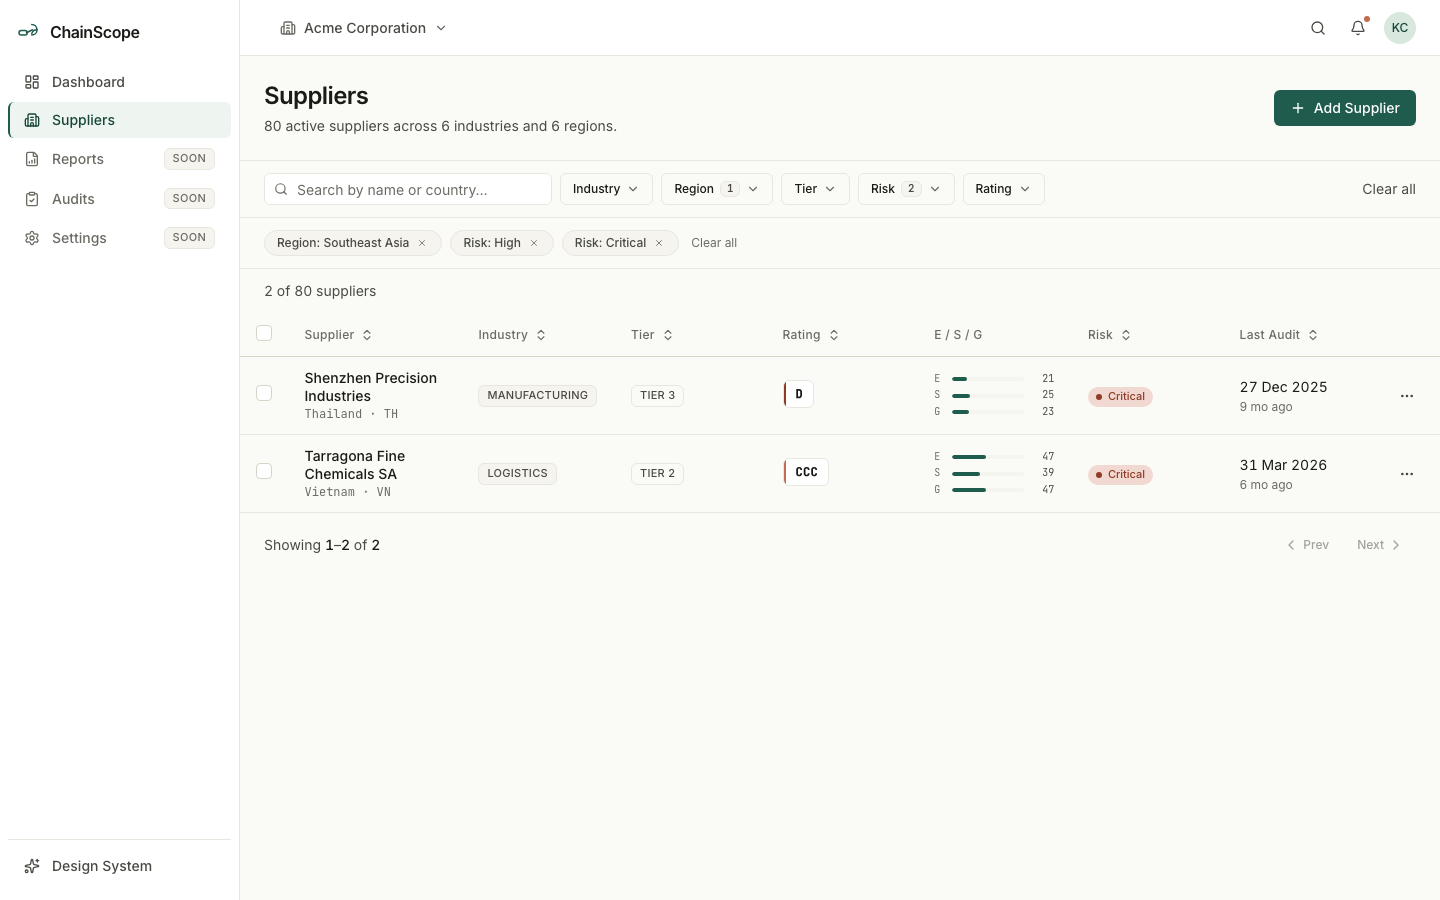
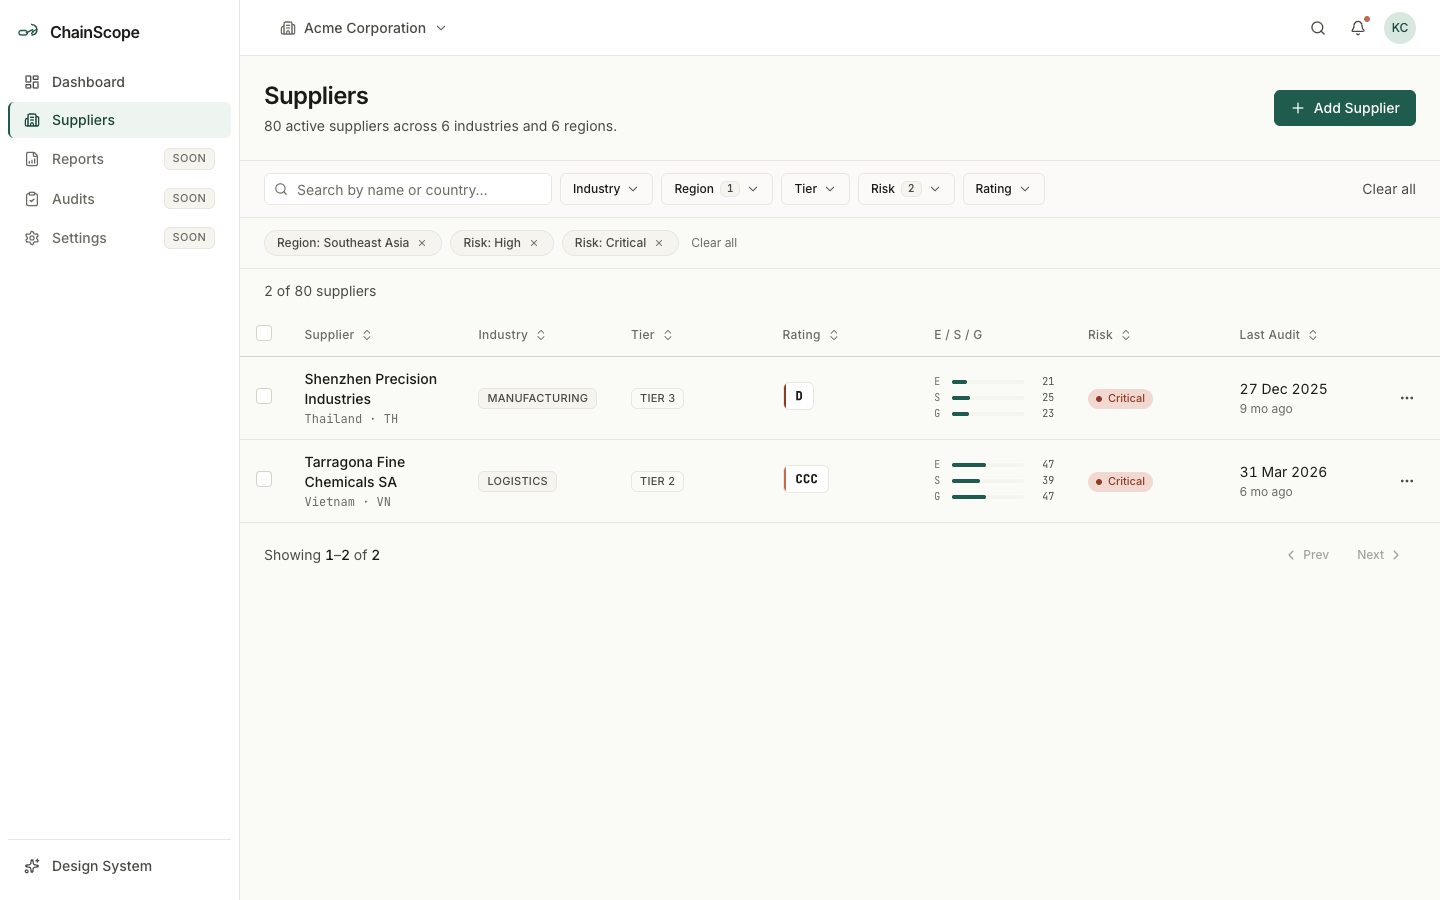
fix(a11y): readable risk text on tinted backgrounds; keyboard-reachable supplier rows
- New *-fg tokens (risk-low/medium/high, warning), same hue, >= 4.5:1 against
  their tints and white; used for text in pills, badges and inline status text.
  Fills, chart colours and dots keep the base tokens.
- Supplier name cell is a real <Link> to the detail page (row click kept), so
  rows are reachable with Tab and open with Enter.
- axe: 0 violations on dashboard, suppliers list and supplier detail (was 1/1/1).
- README accessibility table updated; screenshots regenerated.

diff --git a/src/pages/suppliers/components/SuppliersTable.tsx b/src/pages/suppliers/components/SuppliersTable.tsx
@@ -1,5 +1,5 @@
 import { useMemo, useState } from 'react';
-import { useNavigate } from 'react-router-dom';
+import { Link, useNavigate } from 'react-router-dom';
 import {
   createColumnHelper,
   flexRender,
@@ -172,7 +172,15 @@ export function SuppliersTable({
         header: 'Supplier',
         cell: ({ row }) => (
           <div className="min-w-[140px]">
-            <div className="font-medium text-text-1 leading-tight">{row.original.name}</div>
+            {/* A real link so the row is reachable by Tab and opens with Enter;
+                clicking anywhere on the row still works for mouse users. */}
+            <Link
+              to={`/suppliers/${row.original.id}`}
+              onClick={(e) => e.stopPropagation()}
+              className="font-medium text-text-1 leading-tight hover:underline focus-visible:underline focus-visible:outline-2 focus-visible:outline-offset-2 focus-visible:outline-brand-600 rounded-sm"
+            >
+              {row.original.name}
+            </Link>
             <div className="font-mono text-xs text-text-3 mt-0.5">
               {row.original.country} · {row.original.countryCode}
             </div>
@@ -308,7 +316,7 @@ export function SuppliersTable({
                       variant: 'default',
                     })
                   }
-                  className="text-risk-high"
+                  className="text-risk-high-fg"
                 >
                   Flag for Review
                 </DropdownMenuItem>

diff --git a/src/lib/risk.ts b/src/lib/risk.ts
@@ -1,9 +1,9 @@
 import type { EsgGrade, RiskLevel } from '@/types';
 
 export const RISK_CLASSES: Record<RiskLevel, { text: string; bg: string; dot: string }> = {
-  Low:      { text: 'text-risk-low',      bg: 'bg-risk-low-bg',      dot: 'bg-risk-low' },
-  Medium:   { text: 'text-risk-medium',   bg: 'bg-risk-medium-bg',   dot: 'bg-risk-medium' },
-  High:     { text: 'text-risk-high',     bg: 'bg-risk-high-bg',     dot: 'bg-risk-high' },
+  Low:      { text: 'text-risk-low-fg',      bg: 'bg-risk-low-bg',      dot: 'bg-risk-low' },
+  Medium:   { text: 'text-risk-medium-fg',   bg: 'bg-risk-medium-bg',   dot: 'bg-risk-medium' },
+  High:     { text: 'text-risk-high-fg',     bg: 'bg-risk-high-bg',     dot: 'bg-risk-high' },
   Critical: { text: 'text-risk-critical', bg: 'bg-risk-critical-bg', dot: 'bg-risk-critical' },
 };
 

diff --git a/src/pages/suppliers/components/AuditTimeline.tsx b/src/pages/suppliers/components/AuditTimeline.tsx
@@ -52,7 +52,7 @@ export function AuditTimeline({ audits }: AuditTimelineProps) {
                     className={cn(
                       'inline-flex items-center gap-1 rounded-full px-2 py-0.5 text-xs font-medium tabular-nums font-mono shrink-0',
                       scoreChange > 0 && 'bg-brand-50 text-brand-800',
-                      scoreChange < 0 && 'bg-risk-high-bg text-risk-high',
+                      scoreChange < 0 && 'bg-risk-high-bg text-risk-high-fg',
                       scoreChange === 0 && 'bg-surface-2 text-text-3',
                     )}
                     aria-label={`Score change: ${scoreChange > 0 ? '+' : ''}${scoreChange}`}

diff --git a/src/styles/globals.css b/src/styles/globals.css
@@ -33,10 +33,17 @@
   --color-risk-high-bg:  #F8E5DC;
   --color-risk-critical: #8E3B26;
   --color-risk-critical-bg:#F1D9D2;
+  /* Text on the tinted risk backgrounds (pills, badges, inline status text).
+     Same hue, darkened to >= 4.5:1 against the tint and white. Fills, chart
+     colours and dots keep the base tokens above. */
+  --color-risk-low-fg:    #536E62;
+  --color-risk-medium-fg: #876327;
+  --color-risk-high-fg:   #9B4F36;
 
   /* System */
   --color-success: #2F7A5C;
   --color-warning: #B47A2A;
+  --color-warning-fg: #8D5F21; /* warning text on tints, >= 4.5:1 */
   --color-error:   #B14A38;
   --color-info:    #3A5F7A;
 

diff --git a/src/components/ui/badge.tsx b/src/components/ui/badge.tsx
@@ -11,7 +11,7 @@ export const badgeVariants = cva(
         secondary: 'bg-surface-2 text-text-2 border border-border',
         outline: 'bg-transparent text-text-2 border border-border',
         success: 'bg-brand-50 text-success border border-brand-100',
-        warning: 'bg-risk-medium-bg text-warning border border-risk-medium-bg',
+        warning: 'bg-risk-medium-bg text-warning-fg border border-risk-medium-bg',
         danger: 'bg-risk-high-bg text-error border border-risk-high-bg',
         muted: 'bg-surface-2 text-text-3 border border-border',
       },

diff --git a/src/components/common/DeltaIndicator.tsx b/src/components/common/DeltaIndicator.tsx
@@ -18,8 +18,8 @@ const SIZE_CLASSES = {
 
 function getColorClass(value: number, inverted: boolean): string {
   if (value === 0) return 'text-text-3';
-  if (value > 0) return inverted ? 'text-risk-high' : 'text-success';
-  return inverted ? 'text-success' : 'text-risk-high';
+  if (value > 0) return inverted ? 'text-risk-high-fg' : 'text-success';
+  return inverted ? 'text-success' : 'text-risk-high-fg';
 }
 
 export function DeltaIndicator({

diff --git a/README.md b/README.md
@@ -42,15 +42,15 @@ Vitest runs 12 tests across three files:
 npm test
 ```
 
-Accessibility is checked with axe-core through Playwright. Results as of 2026-10-05, run at 1440x900 against the production build:
+Accessibility is checked with axe-core through Playwright. Results as of 2026-10-11, run at 1440x900 against the production build:
 
 | Page | Violations |
 | --- | --- |
-| Dashboard (`/`) | 1 (color-contrast, serious, 1 node) |
-| Suppliers list (`/suppliers`) | 1 (color-contrast, serious, 7 nodes) |
-| Supplier detail (`/suppliers/sup-001`) | 1 (color-contrast, serious, 2 nodes) |
+| Dashboard (`/`) | 0 |
+| Suppliers list (`/suppliers`) | 0 |
+| Supplier detail (`/suppliers/sup-001`) | 0 |
 
-All remaining violations are text in the risk colours (`risk-low`, `risk-medium`, `risk-high`, `warning`) on their tinted backgrounds, which fall below 4.5:1. They are not fixed yet. Automated checks do not cover everything, and supplier table rows open the detail page on click only.
+Text on the tinted risk backgrounds uses darker `*-fg` tokens (at least 4.5:1); fills, chart colours and dots keep the base risk colours. Each supplier name in the table is a link, so rows can be reached with Tab and opened with Enter. Automated checks do not cover everything.
 
 To run the check:
 
